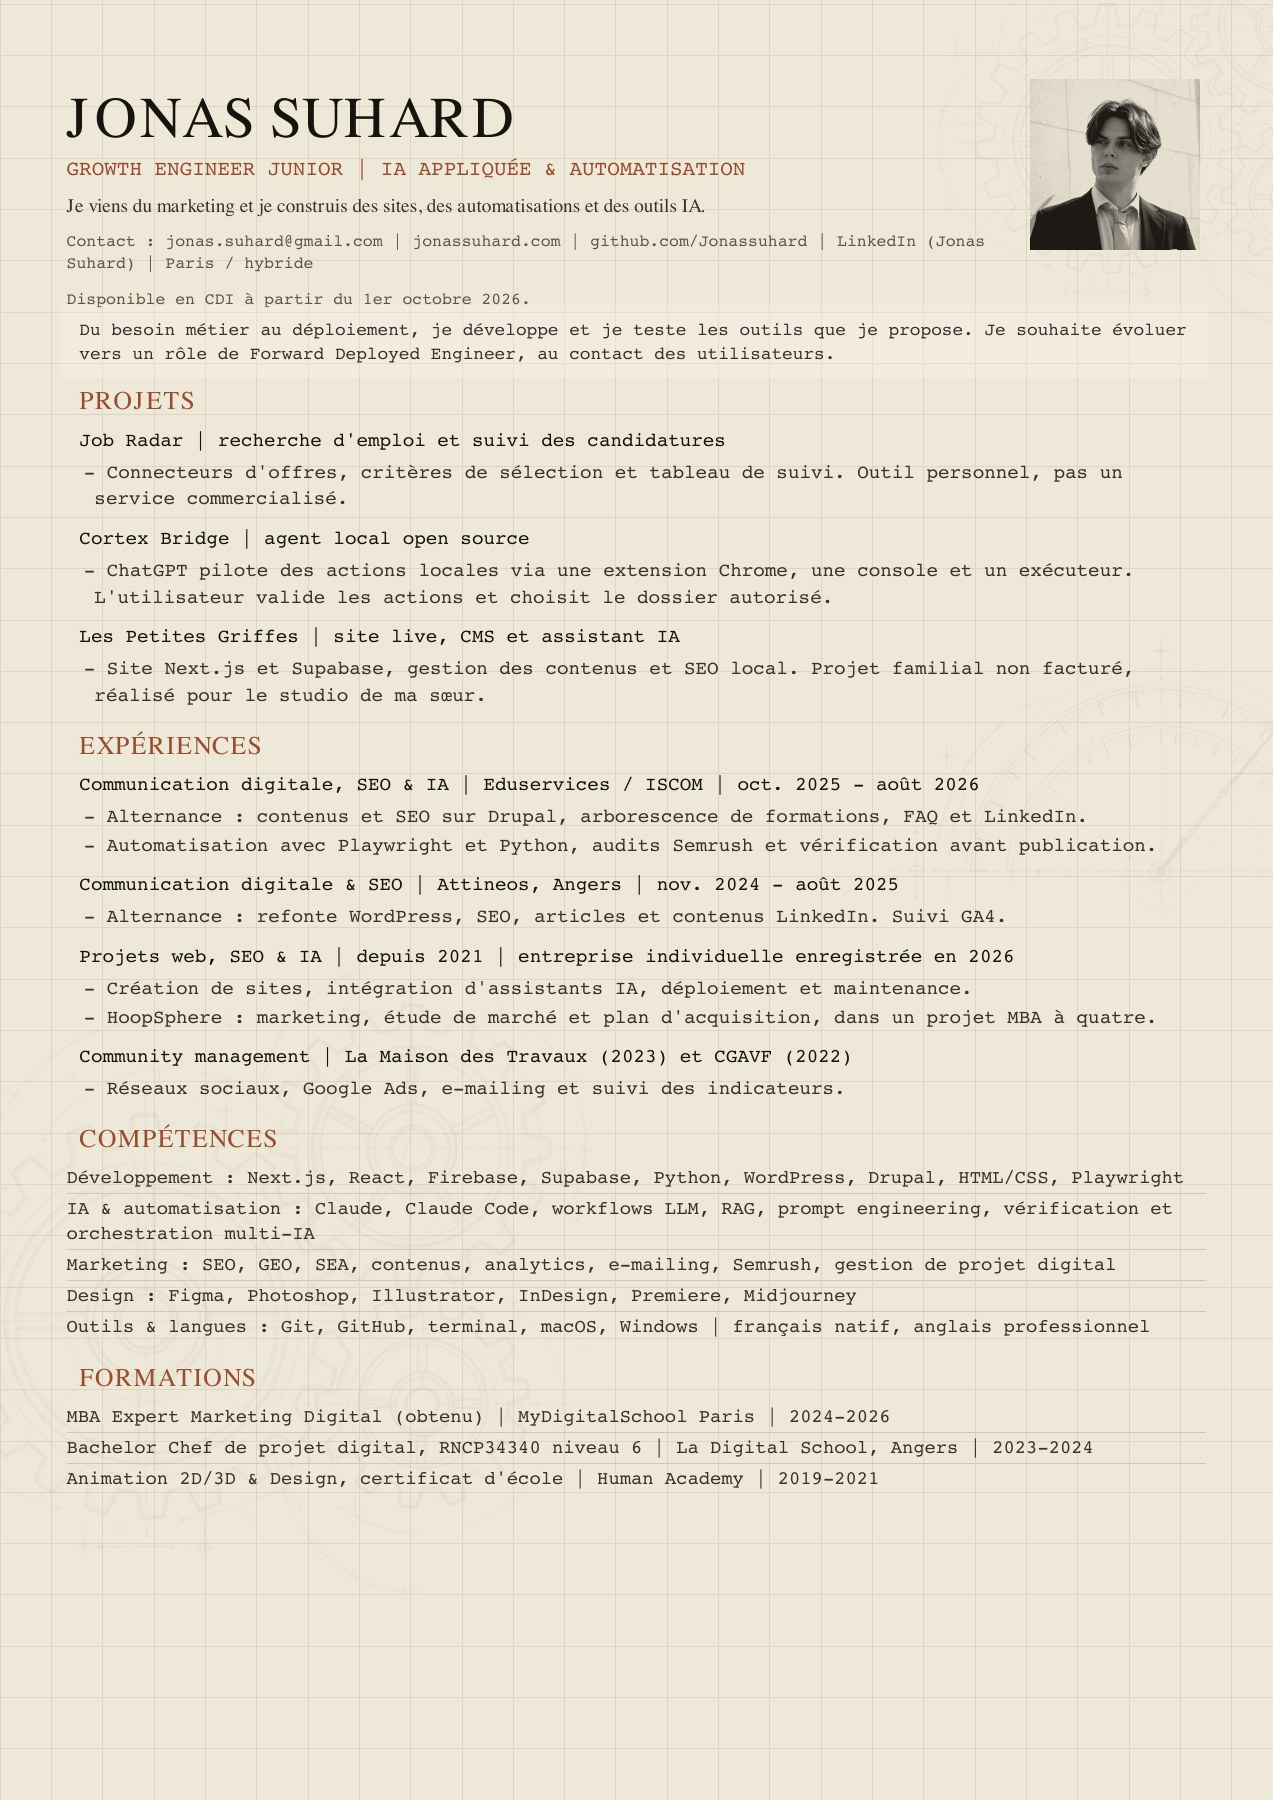
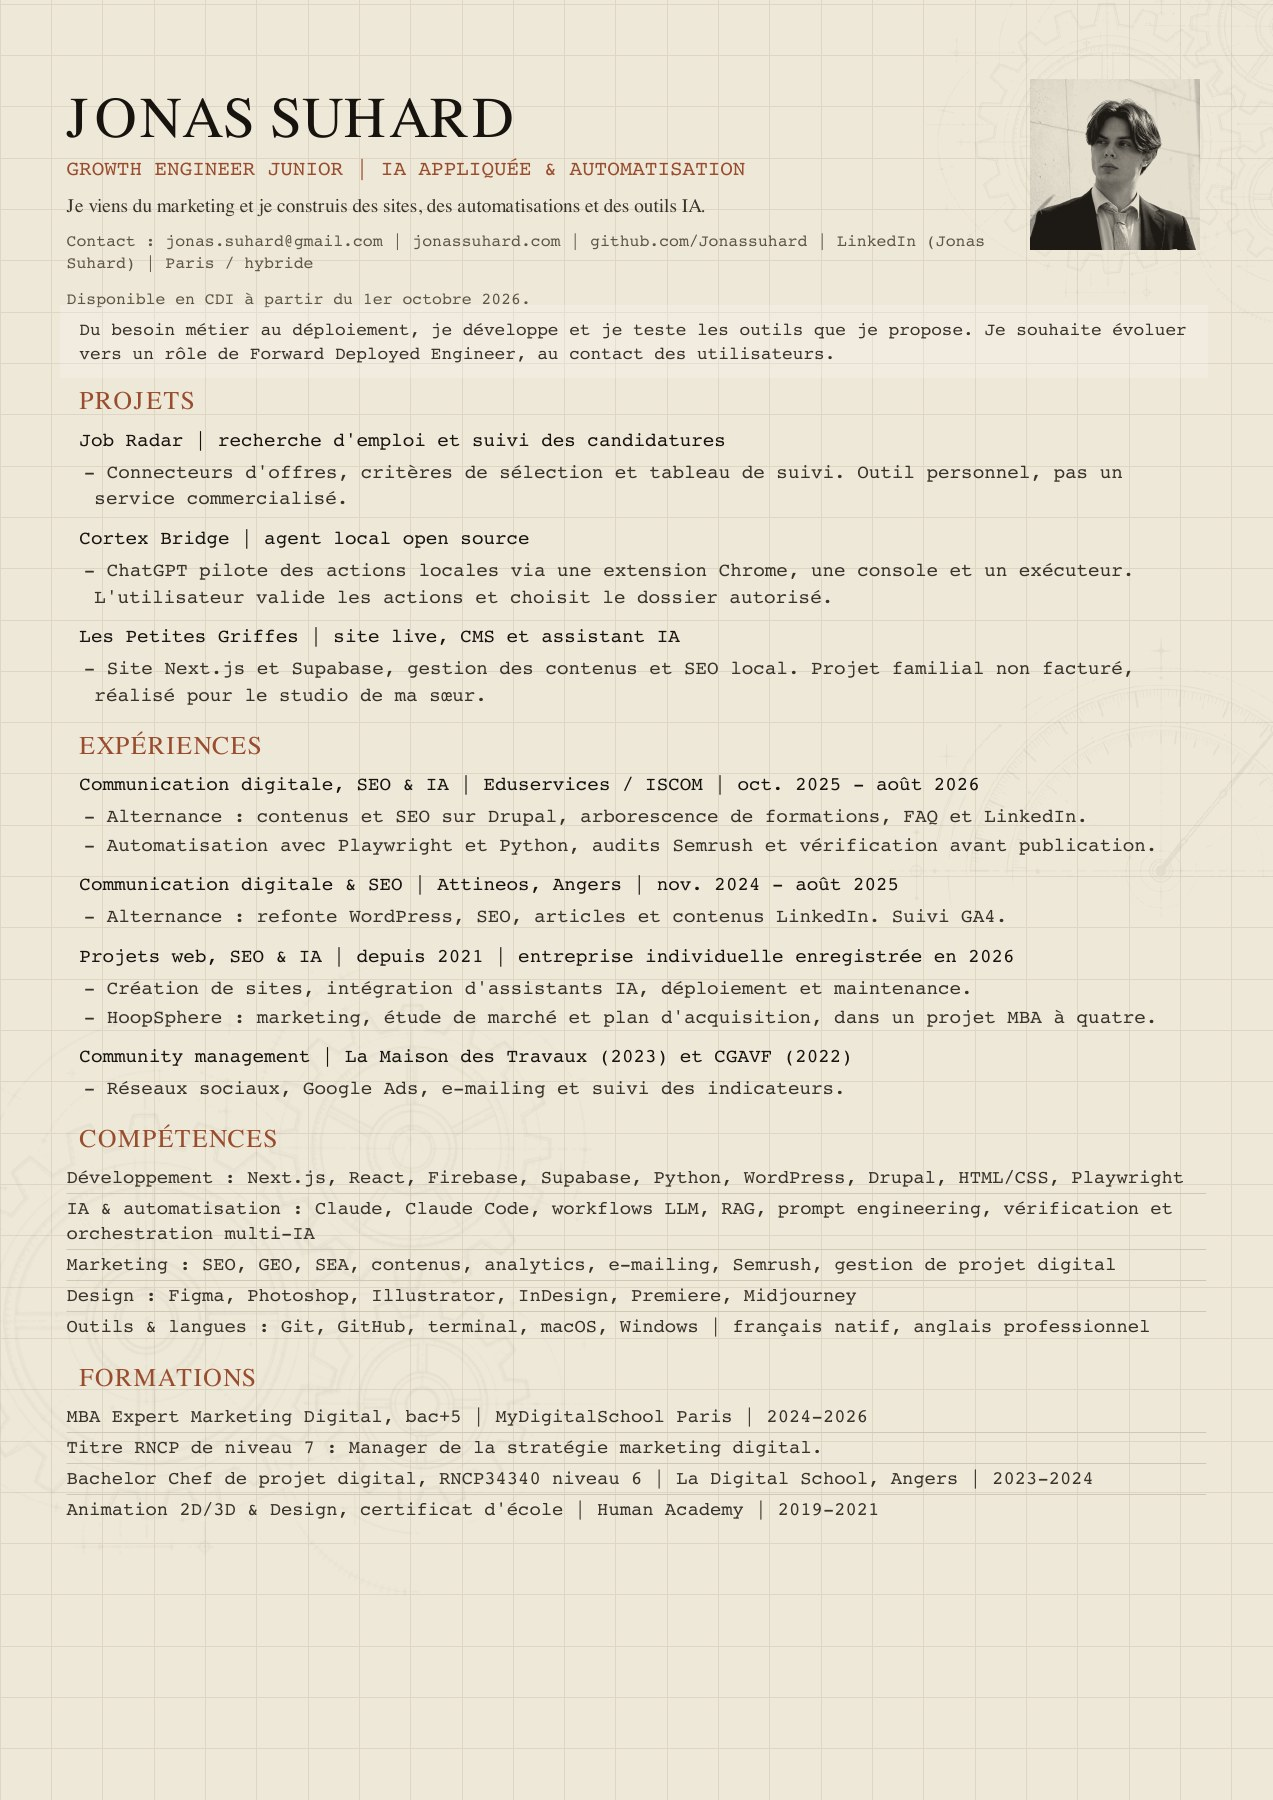
Update MBA level and RNCP title across CVs

Changed region(s): [[0.0613, 0.7778, 0.7353, 0.84], [0.8272, 0.8089, 0.8578, 0.84]]

diff --git a/tests/cv.test.ts b/tests/cv.test.ts
@@ -23,7 +23,9 @@ test("CV previews match the current PDFs and preserve security headers", () => {
 
 test("les CV publics gardent leurs URLs et un contenu general actualise", () => {
   const cv = read("public/cv.md");
-  assert.match(cv, /MBA Expert Marketing Digital \(obtenu\)/);
+  assert.match(cv, /MBA Expert Marketing Digital, bac\+5/);
+  assert.match(cv, /Titre RNCP de niveau 7 : Manager de la stratégie marketing digital/);
+  assert.doesNotMatch(cv, /obtenu|RNCP37280|RNCP41809/);
   assert.match(cv, /1er octobre 2026/);
   assert.ok(cv.indexOf("## Projets") < cv.indexOf("## Expériences"));
   for (const project of ["Job Radar", "Cortex Bridge", "Les Petites Griffes"]) {
@@ -42,7 +44,13 @@ test("la formation MBA est coherente entre profil public et page", () => {
   const profile = JSON.parse(read("public/profile.json"));
   const values = Object.values(profile).filter(Array.isArray).flat();
   const mba = values.find((value) => value?.degree === "MBA Expert Marketing Digital");
-  assert.equal(mba?.status, "obtenu");
-  assert.match(read("app/a-propos/page.tsx"), /MBA Expert Marketing Digital \(obtenu\)/);
-  assert.match(read("lib/json-ld.ts"), /MBA Expert Marketing Digital obtenu/);
+  assert.equal(mba?.level, "bac+5");
+  assert.equal(mba?.status, undefined);
+  assert.match(mba?.certification, /Manager de la stratégie marketing digital, titre RNCP de niveau 7/);
+  for (const path of ["app/a-propos/page.tsx", "lib/json-ld.ts", "public/profile.md", "public/llms.txt"]) {
+    assert.match(read(path), /MBA Expert Marketing Digital/);
+    assert.match(read(path), /bac\+5/);
+    assert.match(read(path), /Manager de la stratégie marketing digital/);
+    assert.doesNotMatch(read(path), /MBA Expert Marketing Digital obtenu|MBA obtenu|RNCP37280|RNCP41809/);
+  }
 });

diff --git a/app/a-propos/page.tsx b/app/a-propos/page.tsx
@@ -114,9 +114,9 @@ export default function AboutPage() {
             <p className="cert">Ressources de formation sur Claude, les API, les outils et les évaluations. Aucune certification obtenue n'est revendiquée.</p>
           </div>
           <div className="matrix-item">
-            <strong>MBA Expert Marketing Digital (obtenu)</strong>
+            <strong>MBA Expert Marketing Digital · bac+5</strong>
             <p>2024–2026 · MyDigitalSchool, Paris</p>
-            <p className="cert">Marketing digital, acquisition et gestion de projet.</p>
+            <p className="cert">Titre RNCP de niveau 7 : Manager de la stratégie marketing digital.</p>
           </div>
           <div className="matrix-item">
             <strong>Bachelor Chef de projet digital</strong>

diff --git a/lib/json-ld.ts b/lib/json-ld.ts
@@ -46,7 +46,7 @@ export function personJsonLd() {
       {
         "@type": "EducationalOrganization",
         name: "MyDigitalSchool Paris",
-        description: "MBA Expert Marketing Digital obtenu (2024-2026)"
+        description: "MBA Expert Marketing Digital, bac+5 (2024-2026). Titre RNCP de niveau 7 : Manager de la stratégie marketing digital."
       },
       {
         "@type": "EducationalOrganization",

diff --git a/public/cv.md b/public/cv.md
@@ -39,7 +39,8 @@ Du besoin métier au déploiement, je développe et je teste les outils que je p
 - Réseaux sociaux, Google Ads, e-mailing et suivi des indicateurs.
 
 ## Formations
-- **MBA Expert Marketing Digital (obtenu)** · MyDigitalSchool Paris · 2024-2026
+- **MBA Expert Marketing Digital, bac+5** · MyDigitalSchool Paris · 2024-2026
+- Titre RNCP de niveau 7 : Manager de la stratégie marketing digital.
 - **Bachelor Chef de projet digital**, RNCP34340 niveau 6 · La Digital School, Angers · 2023-2024
 - **Animation 2D/3D & Design**, certificat d'école · Human Academy · 2019-2021
 

diff --git a/public/profile.md b/public/profile.md
@@ -66,7 +66,7 @@ Paris, France. CDI à Paris ou hybride, disponible à partir du 1er octobre 2026
 
 ## Formation
 
-- 2024-2026, MyDigitalSchool Paris : MBA Expert Marketing Digital obtenu.
+- 2024-2026, MyDigitalSchool Paris : MBA Expert Marketing Digital, bac+5. Titre RNCP de niveau 7 : Manager de la stratégie marketing digital.
 - 2023-2024, La Digital School Angers : Bachelor Chef de projet digital, titre RNCP34340 niveau 6 Chef de projet e-business (preuve privée).
 - 2019-2021, Human Academy Angoulême : Animation 2D/3D, certificat d'école non inscrit au RNCP.
 
